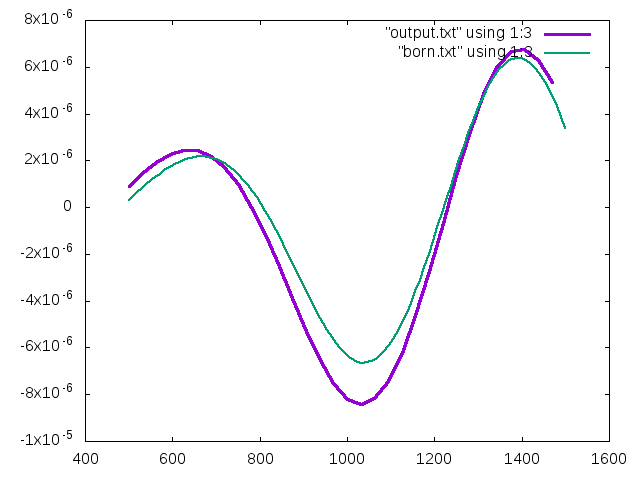
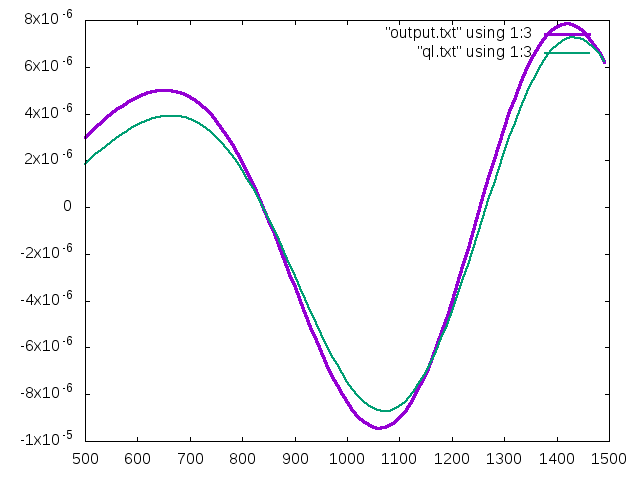
working QA

diff --git a/InputData.cpp b/InputData.cpp
@@ -15,15 +15,15 @@ const double ANOMALY_SIZE_WORLD_X = 300,
              ANOMALY_SIZE_WORLD_Y = 300,
              ANOMALY_SIZE_WORLD_Z = 300;
 
-const double DISCRETIZATION_NX = 128,
-             DISCRETIZATION_NY = 128,
-             DISCRETIZATION_NZ = 128;
+const double DISCRETIZATION_NX = 10,
+             DISCRETIZATION_NY = 10,
+             DISCRETIZATION_NZ = 10;
 
 const double RECEIVER_X_BEGIN_WORLD = 500,
              RECEIVER_X_END_WORLD   = 1500,
              RECEIVER_Y_WORLD       = 0,
              RECEIVER_Z_WORLD       = 0,
-             N_RECEIVERS            = 32;
+             N_RECEIVERS            = 100;
 
 const double FREQUENCY = 5;
 const double SOUND_SPEED = 3000;
